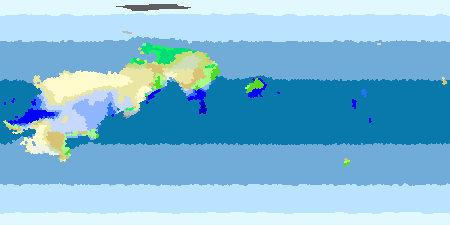
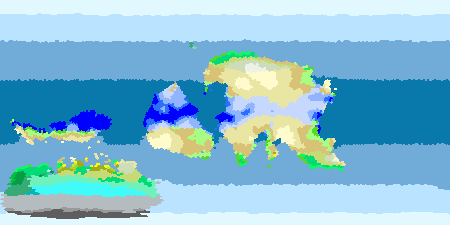
tweak meteors and geology

diff --git a/planet/src/main/kotlin/dev/biserman/planet/planet/tectonics/Meteor.kt b/planet/src/main/kotlin/dev/biserman/planet/planet/tectonics/Meteor.kt
@@ -1,6 +1,7 @@
 package dev.biserman.planet.planet.tectonics
 
 import dev.biserman.planet.planet.Planet
+import dev.biserman.planet.planet.tectonics.Geology.getLayerFor
 import dev.biserman.planet.planet.tectonics.TectonicGlobals.meteorImpactChance
 import dev.biserman.planet.planet.tectonics.TectonicGlobals.minMeteorElevationChange
 import dev.biserman.planet.planet.tectonics.TectonicGlobals.maxMeteorElevationChange
@@ -11,24 +12,26 @@ import kotlin.math.min
 
 object Meteor {
     fun impactMeteor(planet: Planet) {
-        if (planet.random.nextDouble() < meteorImpactChance) return
+        while (planet.random.nextDouble() < meteorImpactChance) {
+            val impactTile = planet.planetTiles.values.random()
 
-        val impactTile = planet.planetTiles.values.random()
+            impactTile.stoneColumn.surface = getLayerFor(impactTile, StonePlacementType.Meteoric)
 
-        impactTile.stoneColumn.surface = impactTile.stoneColumn.getLayer(impactTile, StonePlacementType.Meteoric)
+            val initialElevationChange =
+                planet.random.nextDouble(maxMeteorElevationChange - minMeteorElevationChange) + minMeteorElevationChange
+            val metersUnderWater = planet.seaLevel - impactTile.elevation
+            val elevationChange =
+                if (metersUnderWater > 0.0) initialElevationChange - metersUnderWater else initialElevationChange
+            if (elevationChange > 0.0) {
+                impactTile.elevation -= elevationChange
+            }
 
-        val initialElevationChange = planet.random.nextDouble(maxMeteorElevationChange - minMeteorElevationChange) + minMeteorElevationChange
-        val metersUnderWater = planet.seaLevel - impactTile.elevation
-        val elevationChange = if (metersUnderWater > 0.0) initialElevationChange - metersUnderWater else initialElevationChange
-        if (elevationChange > 0.0) {
-            impactTile.elevation -= elevationChange
+            val shockMetamorphic = impactTile.stoneColumn.middle.stoneComponent.placementType.metamorphicForm
+            if (shockMetamorphic != null) {
+                impactTile.stoneColumn.middle = getLayerFor(impactTile, shockMetamorphic)
+            }
+
+            planet.lastMeteorImpact = planet.tectonicAge + 1
         }
-
-        val shockMetamorphic = impactTile.stoneColumn.middle.stoneComponent.placementType.metamorphicForm
-        if (shockMetamorphic != null) {
-            impactTile.stoneColumn.middle = impactTile.stoneColumn.getLayer(impactTile, shockMetamorphic)
-        }
-
-        planet.lastMeteorImpact = planet.tectonicAge + 1
     }
 }

diff --git a/planet/src/main/kotlin/dev/biserman/planet/planet/tectonics/Geology.kt b/planet/src/main/kotlin/dev/biserman/planet/planet/tectonics/Geology.kt
@@ -4,6 +4,7 @@ import com.fasterxml.jackson.annotation.JsonIdentityInfo
 import com.fasterxml.jackson.annotation.JsonIdentityReference
 import dev.biserman.planet.planet.Planet
 import dev.biserman.planet.planet.PlanetTile
+import dev.biserman.planet.planet.tectonics.Geology.getLayerFor
 import dev.biserman.planet.planet.tectonics.TectonicGlobals.accruedDepositThreshold
 import dev.biserman.planet.planet.tectonics.TectonicGlobals.accruedErosionThreshold
 import dev.biserman.planet.planet.tectonics.TectonicGlobals.depositionContinentialityThreshold
@@ -25,21 +26,13 @@ data class StonePlacement(
     data class SpecialOption(val condition: StonePlacementCondition, val stone: Stone)
 }
 
-
 data class StoneColumn(
     @field:JsonIdentityReference(alwaysAsId = true) var surface: Stone,
     @field:JsonIdentityReference(alwaysAsId = true) var middle: Stone,
     @field:JsonIdentityReference(alwaysAsId = true) var deep: Stone
 ) {
-    fun getLayer(planetTile: PlanetTile, stonePlacementType: StonePlacementType): Stone {
-        val stonePlacement = planetTile.planet.worldKinds.stonePlacements[stonePlacementType]
-            ?: return planetTile.planet.worldKinds.defaultSurfaceStone
-        val firstSpecial = stonePlacement.specialOptions.firstOrNull { it.condition.canPlace(planetTile) }
-        return firstSpecial?.stone ?: stonePlacement.defaultOption
-    }
-
     fun accreteLayer(planetTile: PlanetTile, stonePlacementType: StonePlacementType) {
-        val layer = getLayer(planetTile, stonePlacementType)
+        val layer = getLayerFor(planetTile, stonePlacementType)
         deep = middle
         middle = surface
         surface = layer
@@ -51,7 +44,7 @@ data class StoneColumn(
     }
 
     fun divergeColumn(planetTile: PlanetTile) {
-        val divergenceLayer = getLayer(planetTile, StonePlacementType.MantleVolcanic)
+        val divergenceLayer = getLayerFor(planetTile, StonePlacementType.MantleVolcanic)
         surface = divergenceLayer
         middle = divergenceLayer
         deep = divergenceLayer
@@ -59,15 +52,15 @@ data class StoneColumn(
 
     fun tryTransmuteDeep(planetTile: PlanetTile) {
         val metamorphicForm = deep.stoneComponent.placementType.metamorphicForm ?: return
-        deep = getLayer(planetTile, metamorphicForm)
+        deep = getLayerFor(planetTile, metamorphicForm)
     }
 
     fun igneousIntrude(planetTile: PlanetTile) {
         val contactMetamorphicForm = middle.stoneComponent.placementType.metamorphicForm
         if (contactMetamorphicForm != null) {
-            middle = getLayer(planetTile, contactMetamorphicForm)
+            middle = getLayerFor(planetTile, contactMetamorphicForm)
         }
-        deep = getLayer(planetTile, StonePlacementType.MantleVolcanic)
+        deep = getLayerFor(planetTile, StonePlacementType.MantleVolcanic)
     }
 
     companion object {
@@ -80,6 +73,13 @@ data class StoneColumn(
 }
 
 object Geology {
+    fun getLayerFor(planetTile: PlanetTile, stonePlacementType: StonePlacementType): Stone {
+        val stonePlacement = planetTile.planet.worldKinds.stonePlacements[stonePlacementType]
+            ?: return planetTile.planet.worldKinds.defaultSurfaceStone
+        val firstSpecial = stonePlacement.specialOptions.firstOrNull { it.condition.canPlace(planetTile) }
+        return firstSpecial?.stone ?: stonePlacement.defaultOption
+    }
+
     fun simulateGeology(planet: Planet) {
         // hotspot accretion is done in tryHotspotEruption
         // divergence volcanism is done on tile creation

diff --git a/planet/src/main/kotlin/dev/biserman/planet/planet/tectonics/TectonicGlobals.kt b/planet/src/main/kotlin/dev/biserman/planet/planet/tectonics/TectonicGlobals.kt
@@ -21,7 +21,7 @@ object TectonicGlobals {
     var minCollisionResistance = 0.2
     var plateOverrideElevationAdvantage = 500.0
     var ridgePushStrength = 0.003
-    var mantleConvectionStrength = 0.0008
+    var mantleConvectionStrength = 0.0005
     var springPlateContributionStrength = 0.007
     var edgeInteractionStrength = 0.08
     var tileInertia = 0.25
@@ -59,16 +59,16 @@ object TectonicGlobals {
 
     var depositStrength = 0.6
     var depositLoss = 0.01
-    var depositMultiplier = 1.66
+    var depositMultiplier = 1.75
     var prominenceErosion = 0.2
     var elevationErosion = 1e-06
     var waterErosion = 3.5
     var depositionStartHeight = 1000
 
-    var accruedDepositThreshold = 400.0
-    var accruedErosionThreshold = -2500.0
-    var orogenicMetamorphosisThreshold = 0.1
-    var tectonicVolcanismThreshold = 0.8
+    var accruedDepositThreshold = 800.0
+    var accruedErosionThreshold = -400.0
+    var orogenicMetamorphosisThreshold = 0.05
+    var tectonicVolcanismThreshold = 0.6
     var hotspotEruptionAccretionThreshold = 200.0
     var intrusionStrengthAccretionThreshold = 200.0
     var depositionContinentialityThreshold = -0.4
@@ -78,7 +78,7 @@ object TectonicGlobals {
     var minPercentContinentalGuardrail = 0.15
     var maxPercentContinentalGuardrail = 0.55
 
-    var meteorImpactChance = 0.01
+    var meteorImpactChance = 0.2
     var minMeteorElevationChange = 200.0
     var maxMeteorElevationChange = 2000.0
 

diff --git a/planet/src/main/kotlin/dev/biserman/planet/gui/Gui.kt b/planet/src/main/kotlin/dev/biserman/planet/gui/Gui.kt
@@ -151,8 +151,8 @@ class Gui() : Node() {
         brushTool.initialize()
         climateConfigTool.initialize()
 
-        showSettingsButton.addToggle("Show Stats", listOf("stats")) { statsGraph.visible = it }
-        showSettingsButton.addToggle("Track Stats", listOf("stats")) { statsGraph.trackStats = it }
+        showSettingsButton.addToggle("Show Stats", listOf("stats", "default")) { statsGraph.visible = it }
+        showSettingsButton.addToggle("Track Stats", listOf("stats", "default")) { statsGraph.trackStats = it }
 
         clearMapButton.pressed.connect { showSettingsButton.resetToggles() }
 